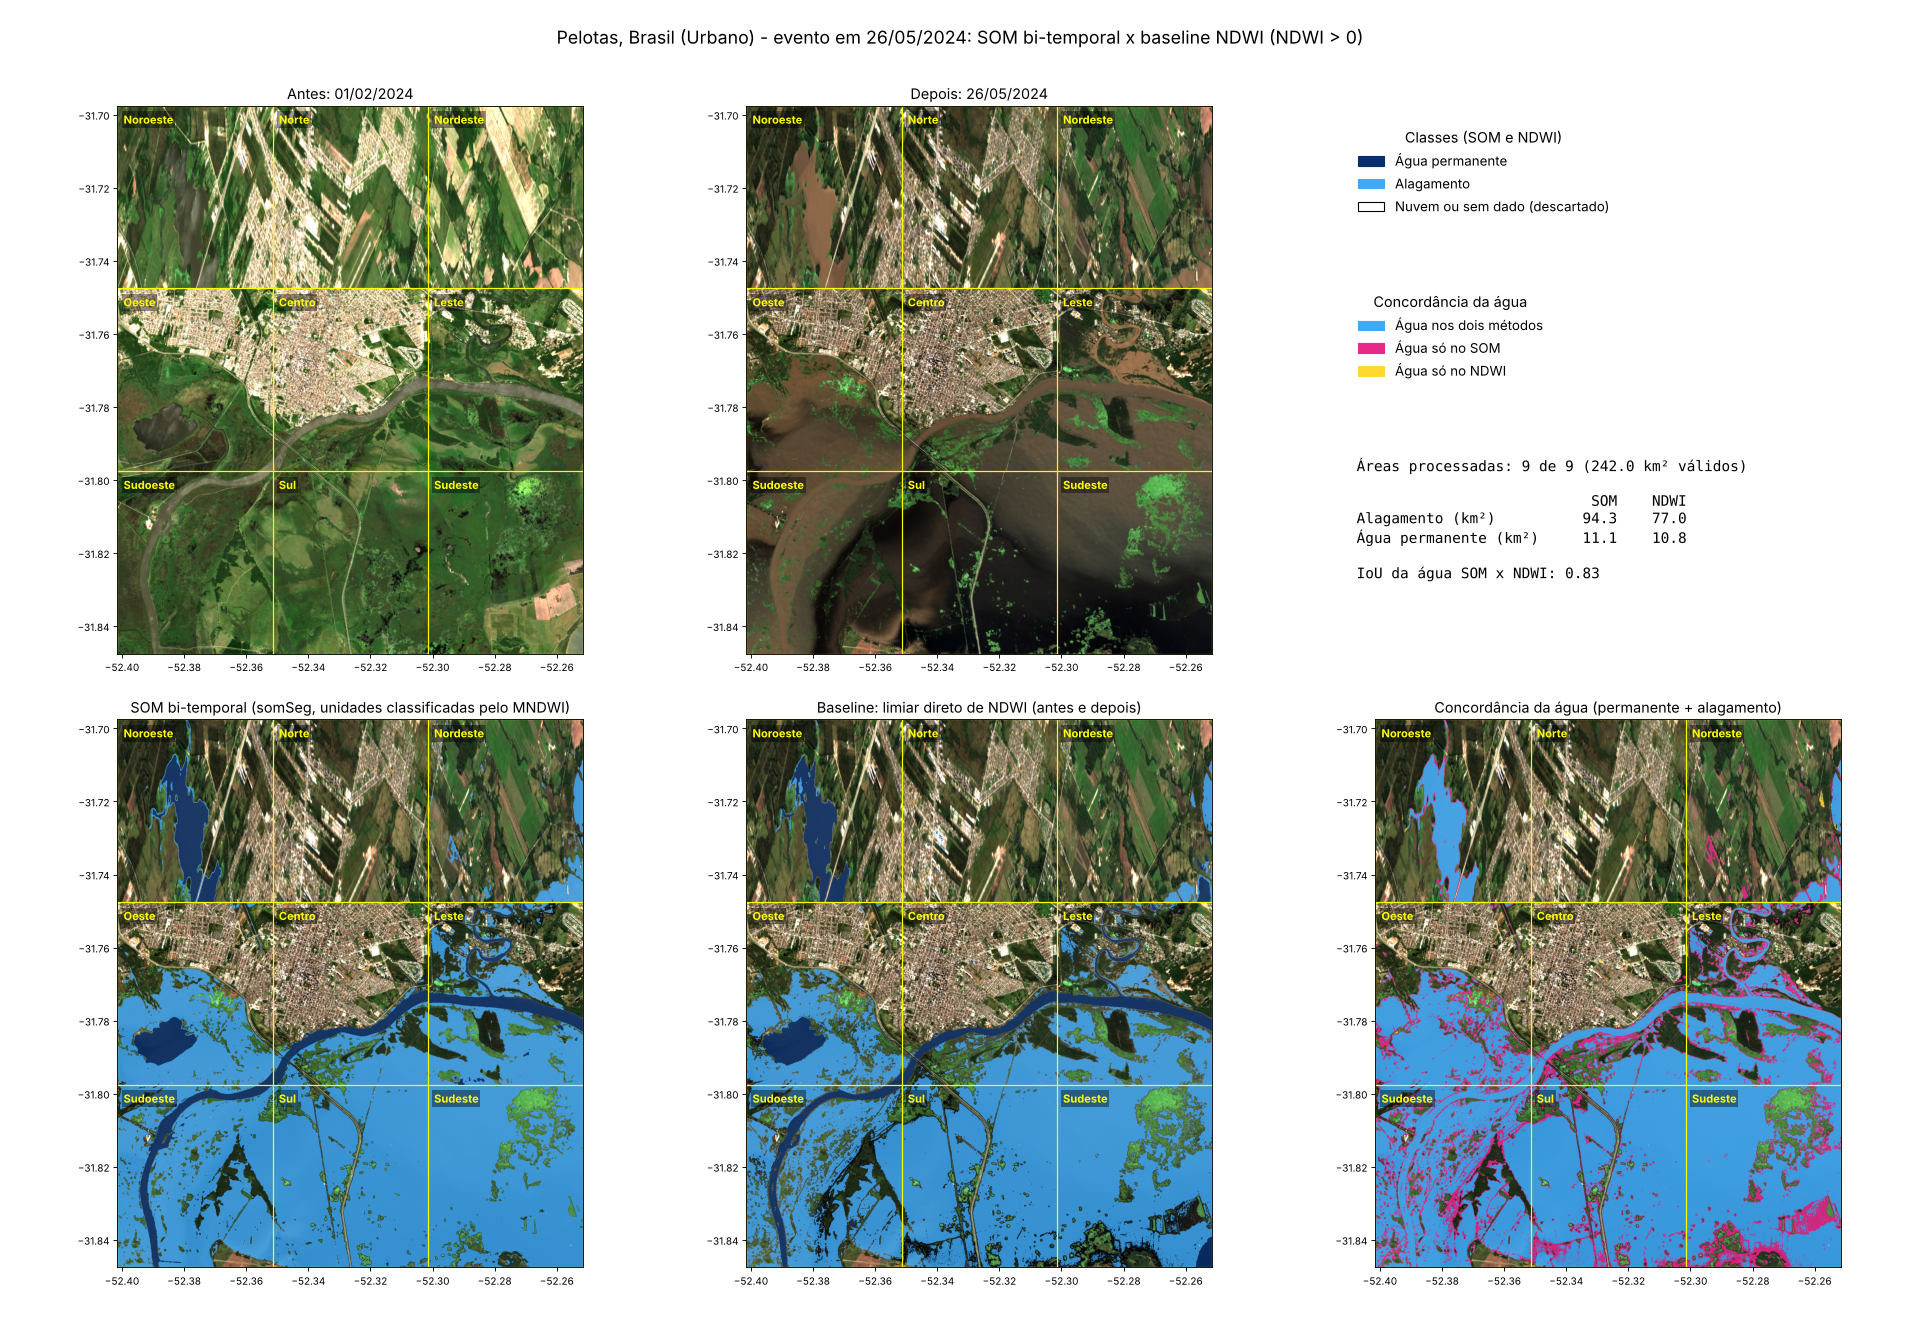
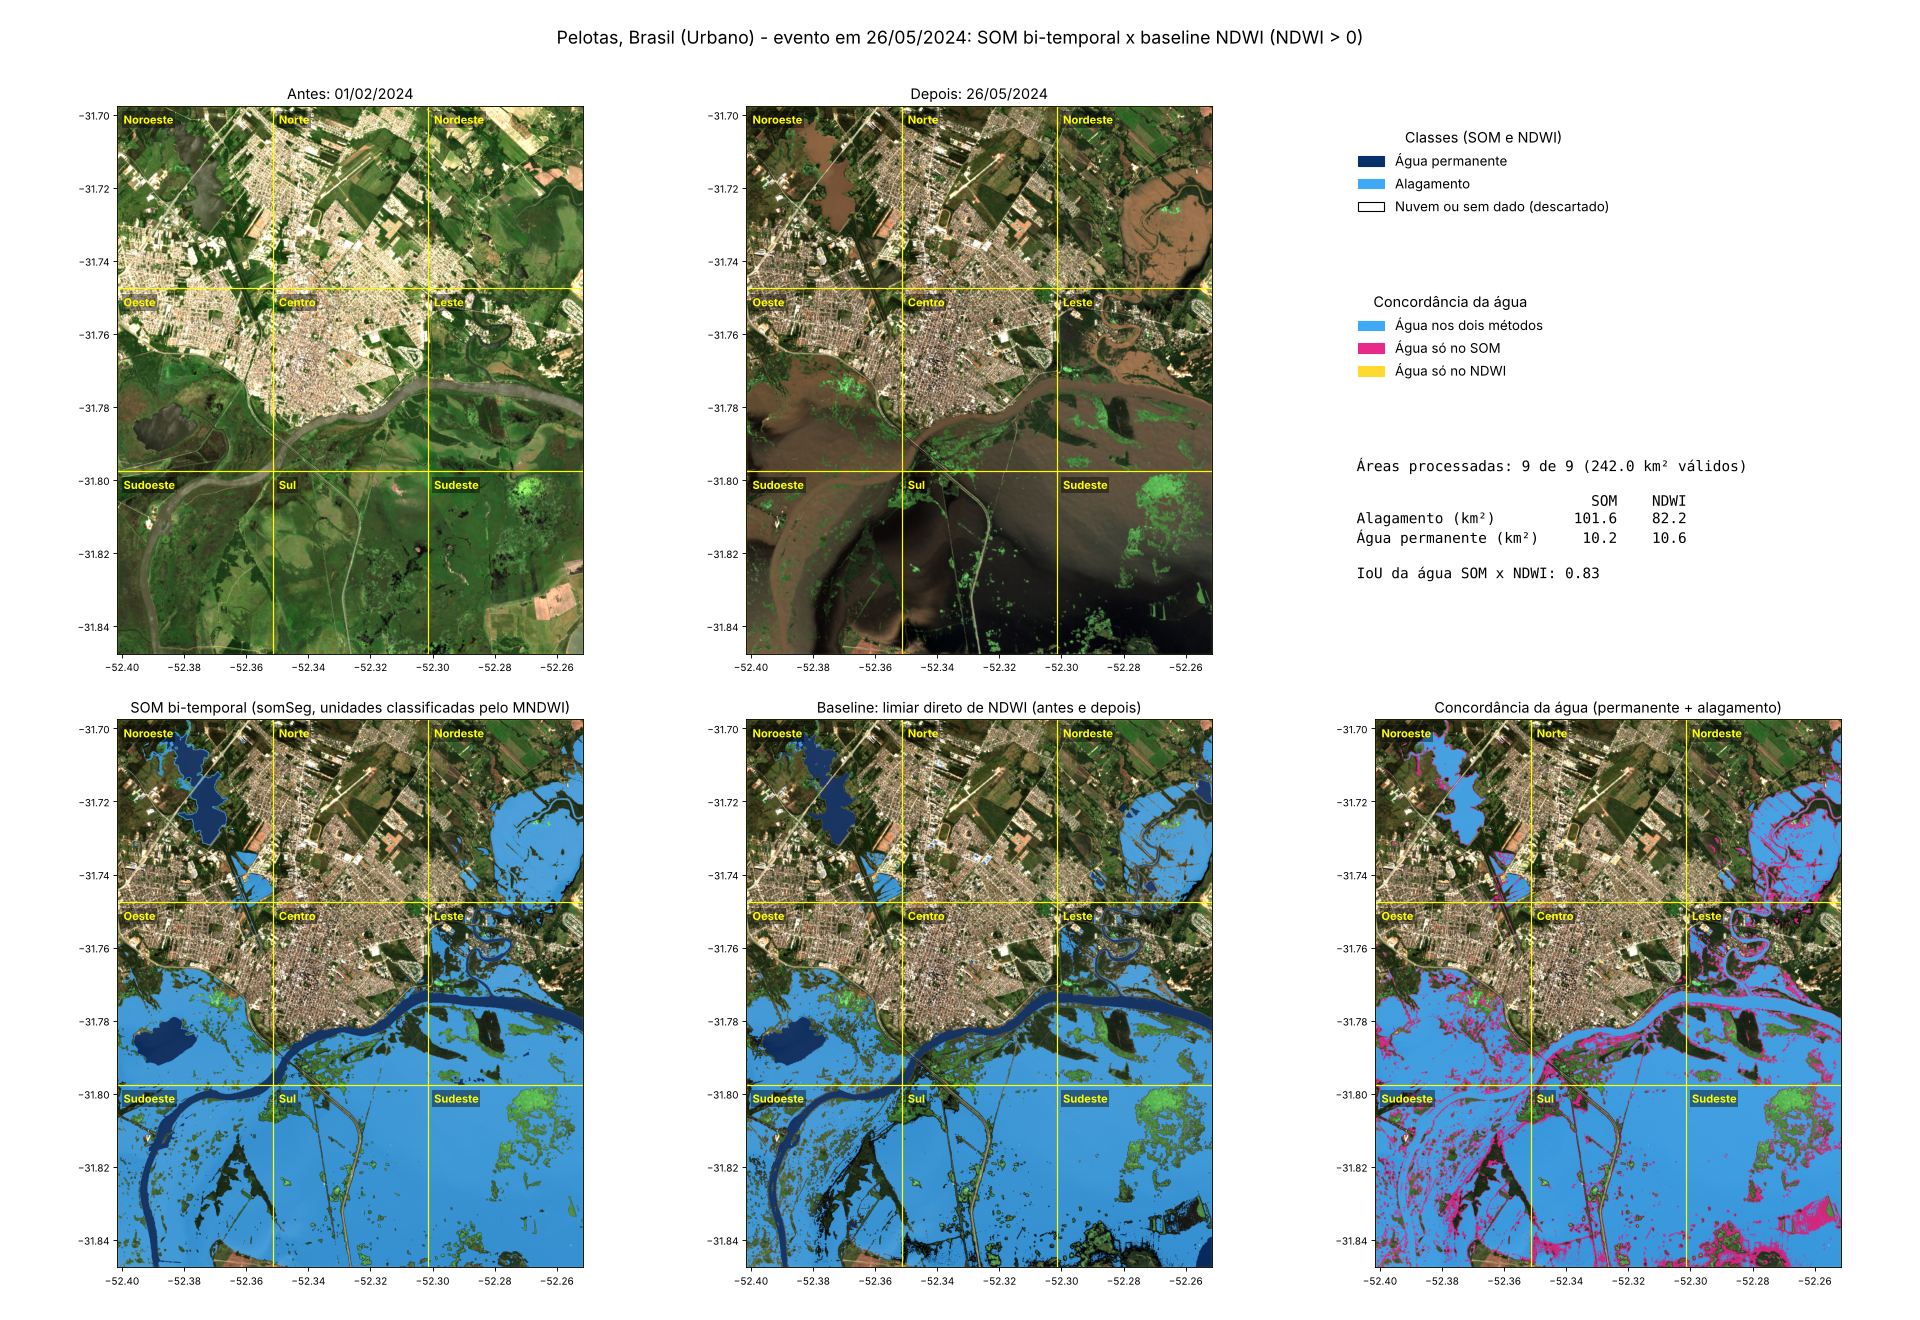
Corrige a linha norte da grade de Pelotas, que estava esticada
As três áreas do norte tinham sido lidas antes da correção da leitura na
borda da cena: a janela passava da borda do tile T22JCL, era cortada e a
parte de dentro era esticada para o tamanho pedido. O cache dessas áreas
foi refeito. A leitura agora também repete falhas momentâneas de rede.

Claude-Session: https://claude.ai/code/session_01DPnUPdBUryvY79sVsNU78y

diff --git a/sentinelUtils.py b/sentinelUtils.py
@@ -11,6 +11,7 @@ O Planetary Computer não exige chave de API para leitura: o pacote
 planetary_computer apenas assina as URLs dos arquivos (tokens SAS temporários).
 """
 
+import time
 from datetime import datetime, timedelta
 
 import numpy as np
@@ -18,6 +19,7 @@ import numpy as np
 import planetary_computer
 import pystac_client
 import rasterio
+import rasterio.errors
 from rasterio.enums import Resampling
 from rasterio.warp import transform_bounds
 from rasterio.windows import from_bounds
@@ -53,13 +55,25 @@ def buscar_cena(bbox, periodo, nuvens_max):
 
 # Lê apenas a região de interesse de um asset (os arquivos são COGs, então só os
 # blocos necessários são baixados), reamostrando para a grade de 10 m
-def ler_asset(item, asset, bbox, resolucao=10, resampling=Resampling.bilinear):
+# Falhas momentâneas de rede (ex.: HTTP 403 ou conexão interrompida) são repetidas
+def ler_asset(item, asset, bbox, resolucao=10, resampling=Resampling.bilinear, tentativas=4):
+    for tentativa in range(tentativas):
+        try:
+            return _ler_asset(item, asset, bbox, resolucao, resampling)
+        except rasterio.errors.RasterioIOError:
+            if tentativa == tentativas - 1:
+                raise
+            time.sleep(5 * 2 ** tentativa)
+
+def _ler_asset(item, asset, bbox, resolucao, resampling):
     with rasterio.open(item.assets[asset].href) as src:
         bounds = transform_bounds("EPSG:4326", src.crs, *bbox)
         janela = from_bounds(*bounds, transform=src.transform)
         altura = int(round((bounds[3] - bounds[1]) / resolucao))
         largura = int(round((bounds[2] - bounds[0]) / resolucao))
-        # Se a região passa da borda da cena, os pixels de fora ficam com 0 (sem dado)
+        # Se a região passa da borda da cena, a leitura precisa ser boundless: os pixels
+        # de fora ficam com 0 (sem dado). Sem isso, a janela é cortada na borda e a parte
+        # de dentro é esticada para o tamanho pedido
         dentro = (janela.col_off >= 0 and janela.row_off >= 0 and janela.col_off + janela.width <= src.width
                   and janela.row_off + janela.height <= src.height)
         return src.read(1, window=janela, out_shape=(altura, largura), resampling=resampling,
